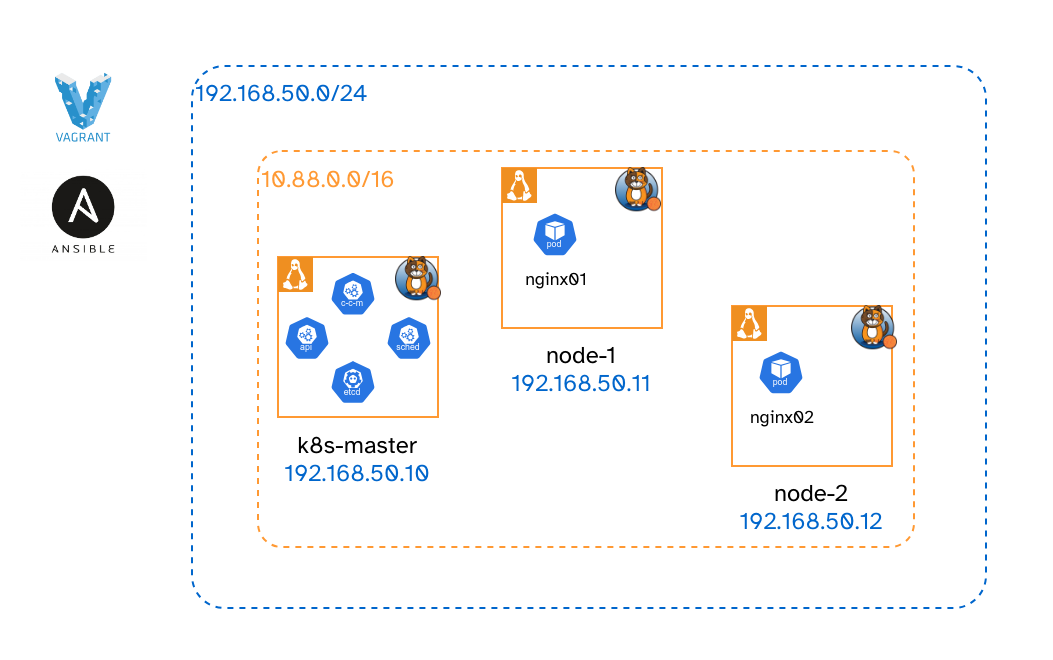
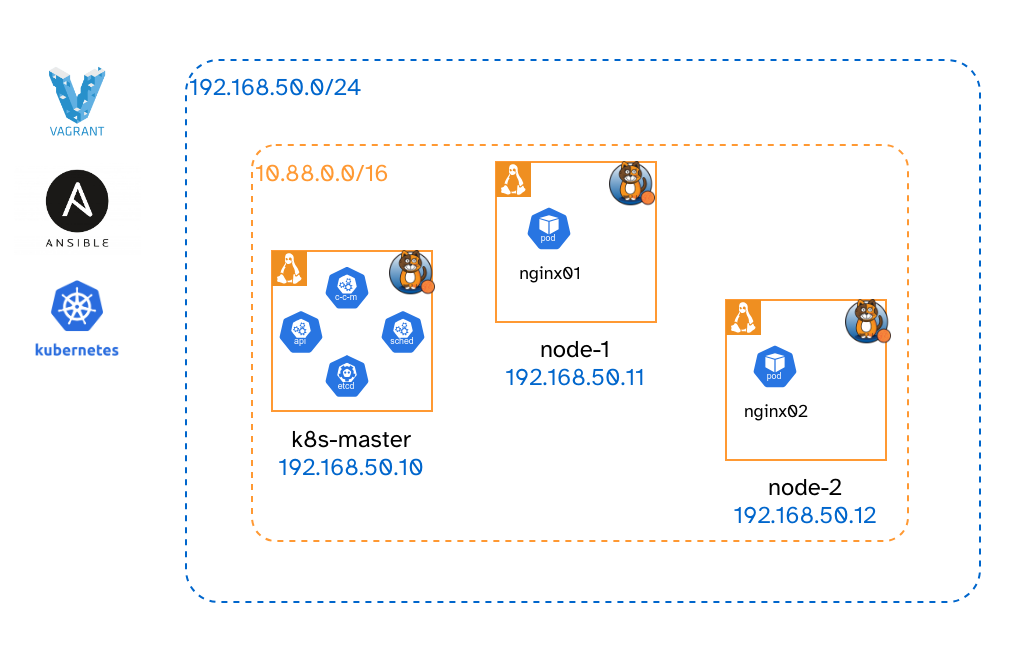
Change open port checking; Change diagram; Update README.md

diff --git a/README.md b/README.md
@@ -47,6 +47,9 @@ To build the whole cluster:
 1. `cd` into the repository
 2. Run: `vagrant up` (this will also execute the Ansible playbooks)
 3. Wait for the whole process to finish
+4. Run: `vagrant ssh k8s-master` to ssh into the master node
+5. Run: `kubectl get nodes` to see if all the nodes were registered and `Ready` (it may take up to a minute)
+6. Run: `kubectl get pods --all-namespaces` and check if all pods are running
 
 
 ## Context
